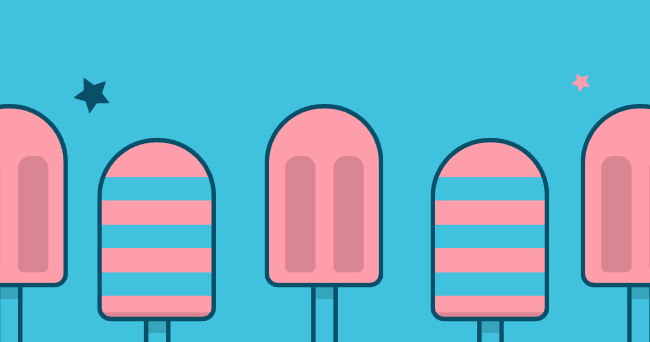
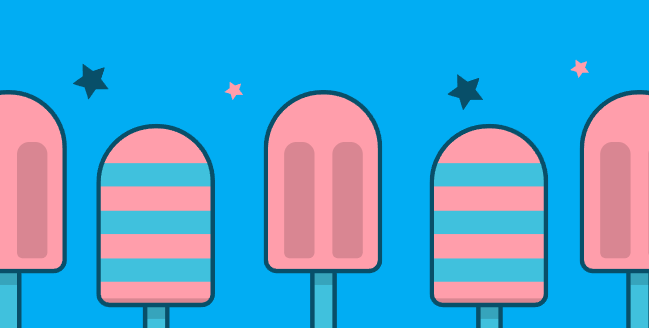
commit bg-footer fixed

diff --git a/index.html b/index.html
@@ -156,7 +156,7 @@
 
   <div class="my-5">
     <!-- Footer -->
-    <footer class="text-center text-white" style="background: #40c1dd;">
+    <footer class="text-center text-white" style="background: #01adf3;">
       <!-- Grid container -->
       <div class="bg-footer" style="background: url('./images/fondo-footer.png') repeat-x bottom;">
       <div class="container" >
@@ -201,6 +201,7 @@
                 <h6 class="text-uppercase font-weight-bold">
                   <a href="#!" class="text-white">Contact</a>
                 </h6>
+                
               </div> -->
             <!-- Grid column -->
           </div>
